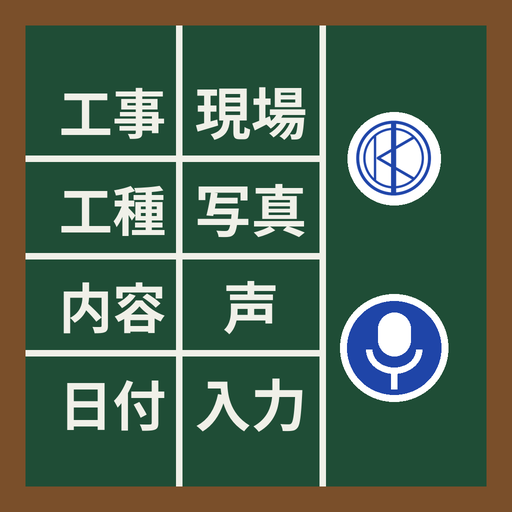
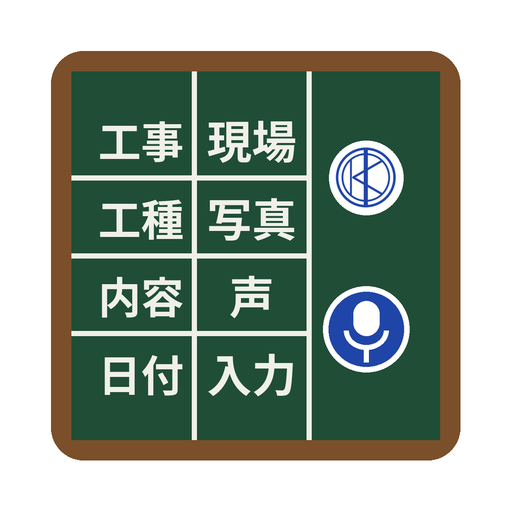
Add files via upload

diff --git a/index.html b/index.html
@@ -114,7 +114,7 @@
     <p class="hint" style="margin:0 0 8px">👆 写真の上の文字を指でつかんで、好きな位置に動かせます。</p>
     <canvas id="cv" class="preview hidden"></canvas>
     <div class="row" style="margin-top:12px">
-      <button id="shareBtn" class="btn primary" disabled>📤 LINEで送る</button>
+      <button id="shareBtn" class="btn primary" disabled>📤 共有する</button>
       <button id="saveBtn" class="btn" disabled>💾 端末に保存</button>
     </div>
     <div id="msg" class="msg"></div>
@@ -382,10 +382,10 @@
     const b = await toBlob();
     const file = new File([b], fileName(), { type: 'image/jpeg' });
     if (navigator.canShare && navigator.canShare({ files: [file] })) {
-      try { await navigator.share({ files: [file] }); setMsg('送信画面を開きました。', 'ok'); }
-      catch (e) { if (e.name !== 'AbortError') setMsg('共有できませんでした。「端末に保存」してからLINEで送ってください。', 'err'); }
+      try { await navigator.share({ files: [file] }); setMsg('共有画面を開きました。', 'ok'); }
+      catch (e) { if (e.name !== 'AbortError') setMsg('共有できませんでした。「端末に保存」してから送ってください。', 'err'); }
     } else {
-      setMsg('このブラウザは画像の共有に未対応です。「端末に保存」してからLINEで送ってください。', 'err');
+      setMsg('このブラウザは画像の共有に未対応です。「端末に保存」してから送ってください。', 'err');
     }
   });
 

diff --git a/sw.js b/sw.js
@@ -1,6 +1,6 @@
 // オフラインでも起動できるようにアプリのファイルを保存しておく
-const CACHE = 'koe-photo-v3';
-const FILES = ['./', './index.html', './manifest.json', './icon-192.png', './icon-512.png'];
+const CACHE = 'koe-photo-v4';
+const FILES = ['./', './index.html', './manifest.json', './icon-192.png', './icon-512.png', './icon-maskable-512.png'];
 self.addEventListener('install', e => {
   e.waitUntil(caches.open(CACHE).then(c => c.addAll(FILES)).then(() => self.skipWaiting()));
 });
